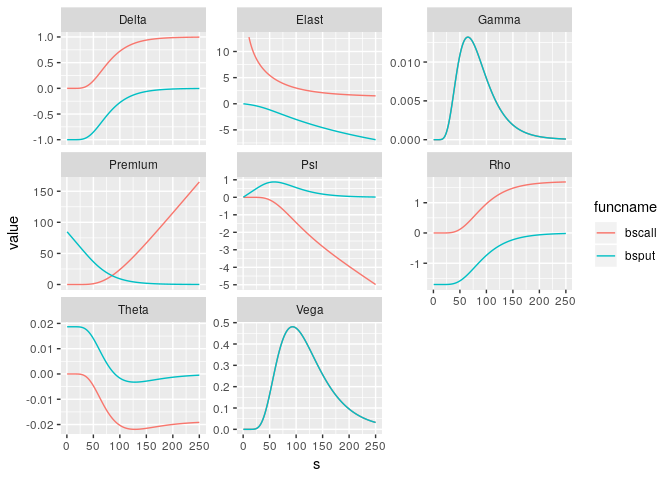
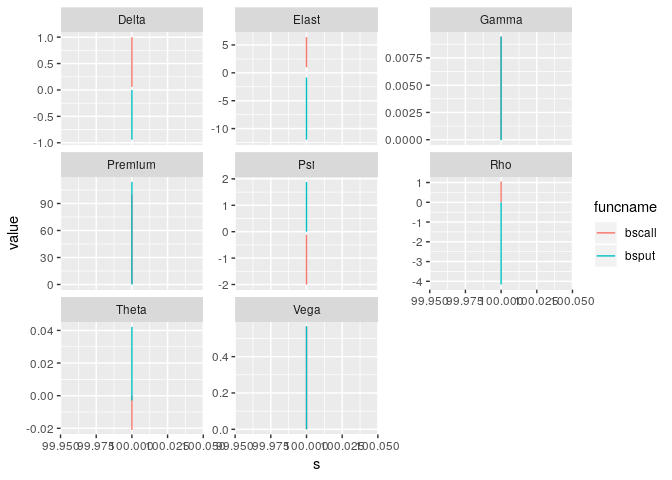
seq now k instead of s
* deleted pointer to vignette.

diff --git a/README.md b/README.md
@@ -29,9 +29,6 @@ The package includes functions for computing
 
   - Analytical and Monte Carlo pricing of Asian options
 
-[derivmkts-vignette.pdf](vignettes/derivmkts-vignette.pdf) provides an
-overview of the package, which an emphasis on what is novel.
-
 ## Calculation of Greeks
 
 The function `greeks()` accepts an option pricing function call as an
@@ -111,10 +108,10 @@ options:
 ``` r
 library(derivmkts)
 library(ggplot2)
-k <- 100; r <- 0.08; v <- 0.30; tt <- 2; d <- 0
-S <- seq(.5, 250, by=.5)
-yc <- greeks(bscall(S, k, v, r, tt, d), complete=TRUE, long=TRUE)
-yp <- greeks(bsput(S, k, v, r, tt, d), complete=TRUE, long=TRUE)
+s <- 100; r <- 0.08; v <- 0.30; tt <- 2; d <- 0
+k <- seq(.5, 250, by=.5)
+yc <- greeks(bscall(s, k, v, r, tt, d), complete=TRUE, long=TRUE)
+yp <- greeks(bsput(s, k, v, r, tt, d), complete=TRUE, long=TRUE)
 ggplot(rbind(yc, yp), aes(x=s, y=value, color=funcname)) + geom_line() +
     facet_wrap(~ greek, scales='free_y')
 ```
